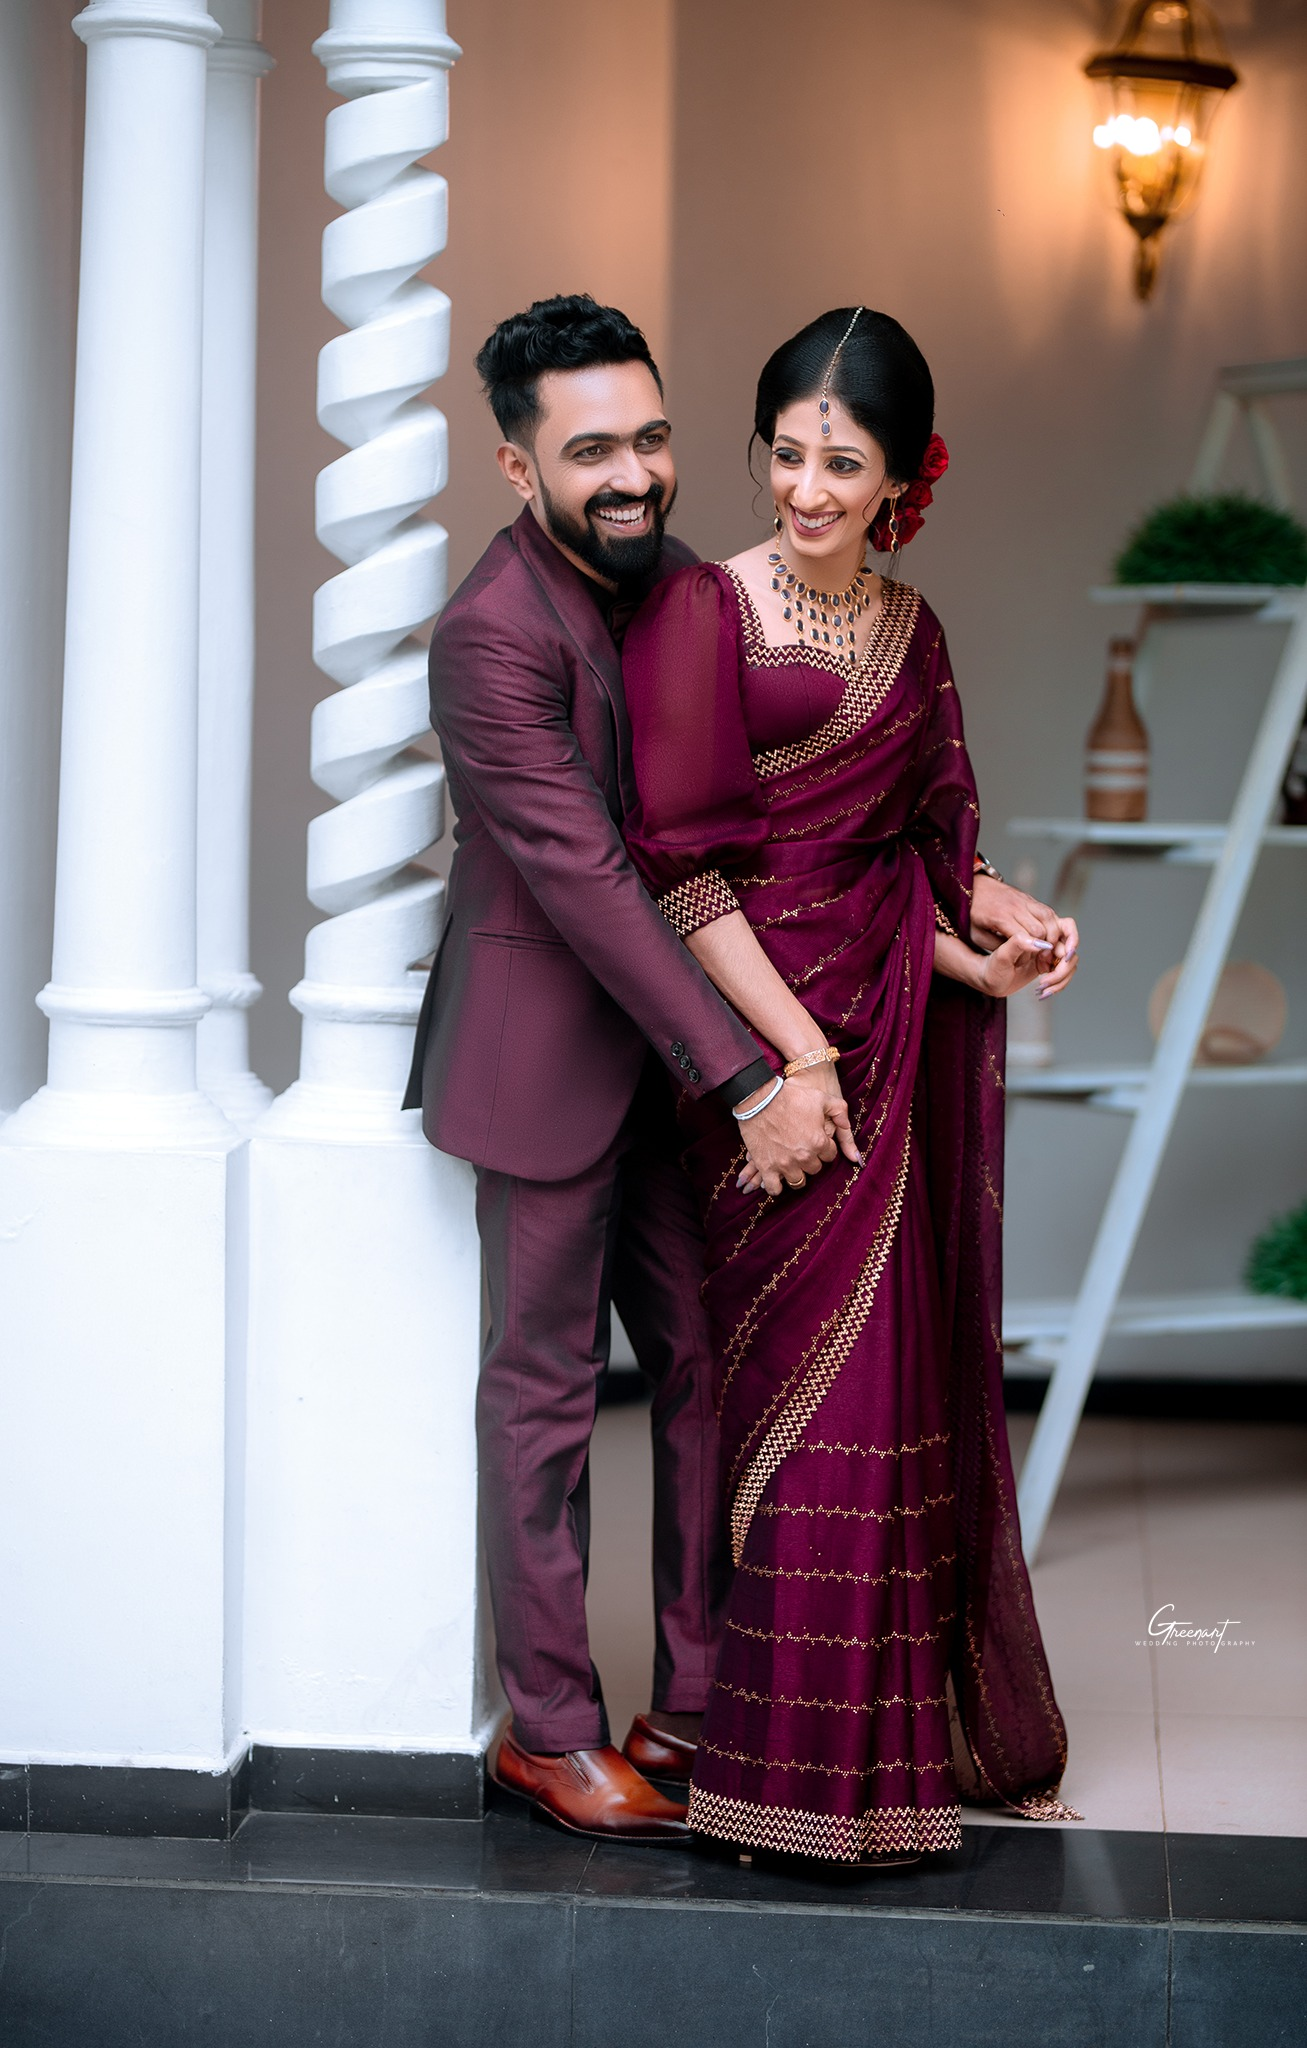
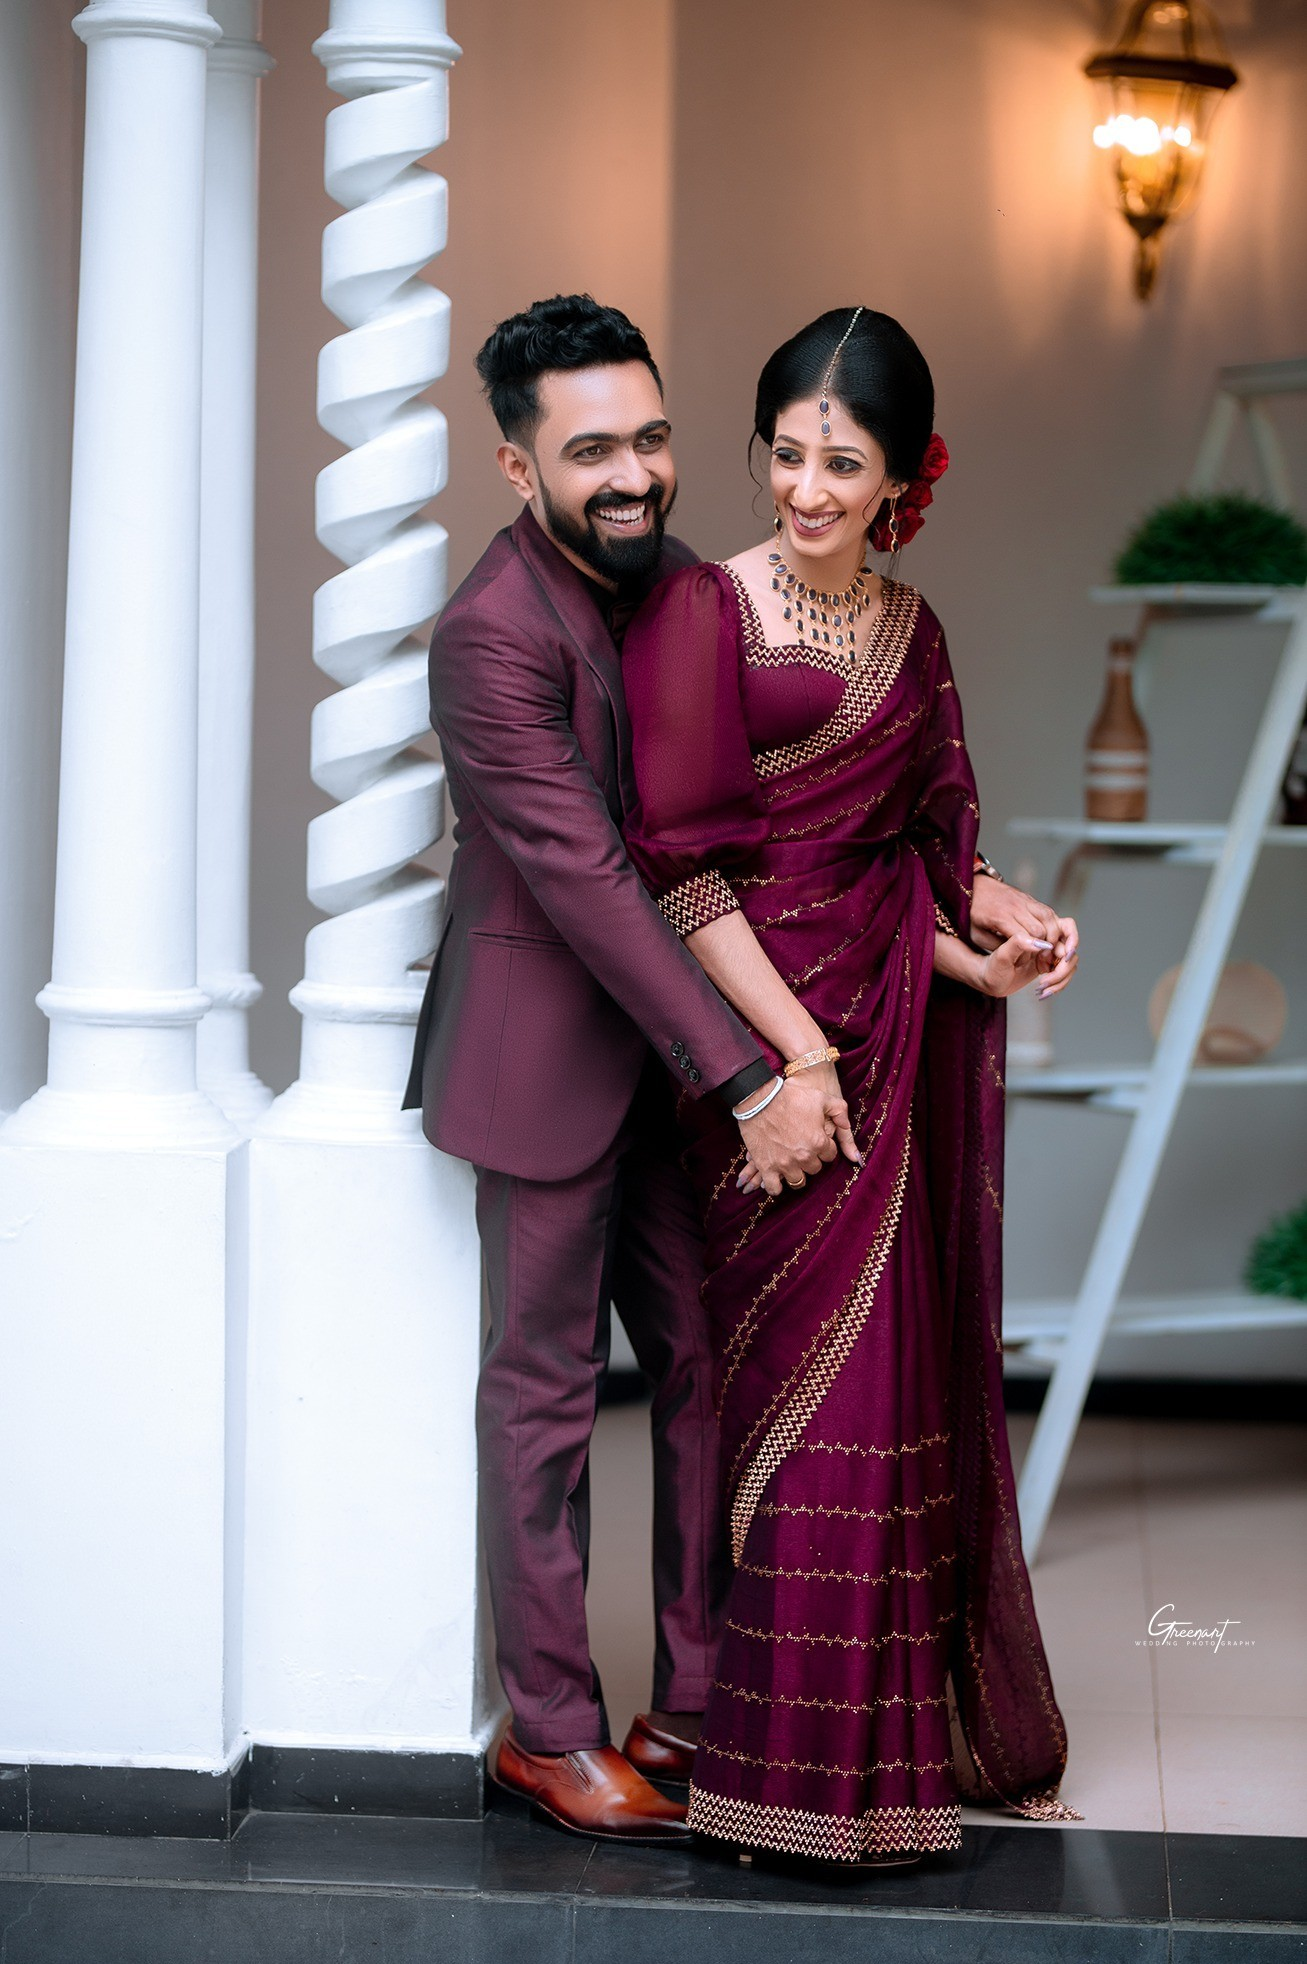
Update Footer component address format; enhance Location description and image loading; adjust styles in App.css for better visuals

diff --git a/src/components/Gallery.jsx b/src/components/Gallery.jsx
@@ -52,24 +52,64 @@ function Gallery() {
                 <div className="image__container">
                     <div className="dream">
                         <img src={img2} alt="image" />
-                        <img src={img10} alt="image" />
-                        <img src={img3} alt="image" className="showOnBtn" />
-                        <img src={img21} alt="image" className="showOnBtn" />
+                        <img src={img11} alt="image" />
+                        <img
+                            src={img3}
+                            alt="image"
+                            className="showOnBtn"
+                            loading="lazy"
+                        />
+                        <img
+                            src={img21}
+                            alt="image"
+                            className="showOnBtn"
+                            loading="lazy"
+                        />
                         {/* <img src={img5} alt="image" /> */}
                     </div>
                     <div className="dream">
-                        <img src={img6} alt="image" />
+                        <img src={img10} alt="image" />
                         <img src={img8} alt="image" />
-                        <img src={img7} alt="image" className="showOnBtn" />
-                        <img src={img1} alt="image" className="showOnBtn" />
-                        <img src={img5} alt="image" className="showOnBtn" />
+                        <img
+                            src={img7}
+                            alt="image"
+                            className="showOnBtn"
+                            loading="lazy"
+                        />
+                        <img
+                            src={img1}
+                            alt="image"
+                            className="showOnBtn"
+                            loading="lazy"
+                        />
+                        <img
+                            src={img5}
+                            alt="image"
+                            className="showOnBtn"
+                            loading="lazy"
+                        />
                     </div>
                     <div className="dream">
                         <img src={img18} alt="image" />
-                        <img src={img11} alt="image" />
-                        <img src={img12} alt="image" className="showOnBtn" />
-                        <img src={img14} alt="image" className="showOnBtn" />
-                        <img src={img19} alt="image" className="showOnBtn" />
+                        <img src={img6} alt="image" />
+                        <img
+                            src={img12}
+                            alt="image"
+                            className="showOnBtn"
+                            loading="lazy"
+                        />
+                        <img
+                            src={img14}
+                            alt="image"
+                            className="showOnBtn"
+                            loading="lazy"
+                        />
+                        <img
+                            src={img19}
+                            alt="image"
+                            className="showOnBtn"
+                            loading="lazy"
+                        />
                     </div>
                 </div>
                 <button

diff --git a/src/components/Location.jsx b/src/components/Location.jsx
@@ -9,27 +9,30 @@ const Location = () => {
                 <div className="map-container">
                     <div className="box">
                         <p>
-                            Nestled in the heart of Ussapitiya, Hotel Ambasewana
-                            Walawwa is surrounded by breathtaking natural
-                            beauty, cultural heritage, and serene landscapes.
-                            Conveniently located away from the hustle and
-                            bustle, our hotel offers a perfect retreat for
-                            relaxation while still being close to key
-                            attractions. Guests can explore scenic waterfalls,
-                            ancient temples, lush green forests, and local
-                            markets, making it an ideal destination for nature
-                            lovers, adventure seekers, and cultural explorers
-                            alike. Whether you&aposre here for a peaceful
-                            getaway or an exciting adventure, our location
-                            ensures an unforgettable experience. <br />
+                            Nestled in the heart of Ussapitiya, Hotel{' '}
+                            <span>Ambasewana Walawwa</span> is surrounded by
+                            breathtaking natural beauty, cultural heritage, and
+                            serene landscapes. Conveniently located away from
+                            the hustle and bustle, our hotel offers a perfect
+                            retreat for relaxation while still being close to
+                            key attractions. Guests can explore scenic
+                            waterfalls, ancient temples, lush green forests, and
+                            local markets, making it an ideal destination for
+                            nature lovers, adventure seekers, and cultural
+                            explorers alike. Whether you&aposre here for a
+                            peaceful getaway or an exciting adventure, our
+                            location ensures an unforgettable experience. <br />
                             <br />
-                            🌿 Discover the beauty of Ussapitiya with us!
+                            🌿
+                            <span>
+                                {' '}
+                                Discover the beauty of Ussapitiya with us!
+                            </span>
                         </p>
                     </div>
                     <iframe
                         src="https://www.google.com/maps/embed?pb=!1m18!1m12!1m3!1d3958.1992934311897!2d80.45343891952979!3d7.218094284623921!2m3!1f0!2f0!3f0!3m2!1i1024!2i768!4f13.1!3m3!1m2!1s0x3ae3132d69b78017%3A0x2c3112c80faaa3ce!2sAmbasewana%20Walawwa!5e0!3m2!1sen!2slk!4v1741375844616!5m2!1sen!2slk"
                         allowFullScreen=""
-                        loading="lazy"
                         referrerPolicy="no-referrer-when-downgrade"
                     ></iframe>
                 </div>

diff --git a/src/App.css b/src/App.css
@@ -216,9 +216,9 @@
     .text-content {
         width: 100%;
         text-align: center;
-        bottom: 0%;
-        left: 0%;
-        transform: translate(-50%);
+        bottom: 5%;
+        left: 5%;
+        transform: translate(-50%, 0);
         padding: 0px;
     }
 }
@@ -280,7 +280,20 @@
     max-width: 100%;
     height: auto;
     justify-content: center;
-    border-radius: 15px;
+    border-radius: 5px;
+    transition: 0.3s ease;
+    filter: brightness(0.85);
+}
+
+.content img:hover {
+    filter: brightness(1.1);
+}
+
+.content hr {
+    width: 70%;
+    border: 0;
+    border-bottom: 1px solid #bdb797;
+    margin: 20px auto;
 }
 
 #about {
@@ -288,7 +301,8 @@
     font-family: var(--heading-description-font);
     font-weight: 500;
     /* Needs to be changed */
-    font-size: clamp(1.8rem, 2vw, 7rem);
+    /* font-size: clamp(1.8rem, 2vw, 7rem); */
+    font-size: 1.8rem;
     width: 100%;
     text-align: justify;
     padding-left: 60px;
@@ -405,16 +419,24 @@
     display: flex;
     flex-direction: column;
     justify-content: center;
+    filter: brightness(0.9);
+    transition: all 0.3s ease;
+    color: #000;
     /* border: 1px solid rgb(75, 82, 92); */
     /* border-radius: 10px 10px 0 0; */
 }
 
 #card-black {
+    color: #fff;
     background-color: #202020;
 }
 
+.card:hover {
+    filter: brightness(1.1);
+}
+
 i.ri {
-    font-size: 36px;
+    font-size: 45px;
 }
 
 @media (max-width: 535px) {
@@ -749,9 +771,14 @@ i.ri {
 }
 
 .box p {
-    font-family: var(--p-font);
-    font-size: 1.3rem;
+    font-family: var(--heading-description-font);
+    font-size: 1.4rem;
     /* line-height: 4vh; */
+}
+
+.box p span {
+    font-weight: bolder;
+    font-style: italic;
 }
 
 iframe {
@@ -839,7 +866,7 @@ footer {
 
 .col p {
     font-family: var(--p-font);
-    text-transform: uppercase;
+    font-weight: 500;
 }
 .col h3 {
     font-family: var(--p-font);

diff --git a/src/components/Footer.jsx b/src/components/Footer.jsx
@@ -20,7 +20,8 @@ const Footer = () => {
                         <p></p>
                         <p>
                             Aranayaka Road, <br />
-                            Ussapitiya, Mawanella, 71500 Mawanella
+                            Ussapitiya, Mawanella <br />
+                            71500 Mawanella
                         </p>
                         <p id="email">ambasewanawalawwa1@gmail.com</p>
                         <h4>
